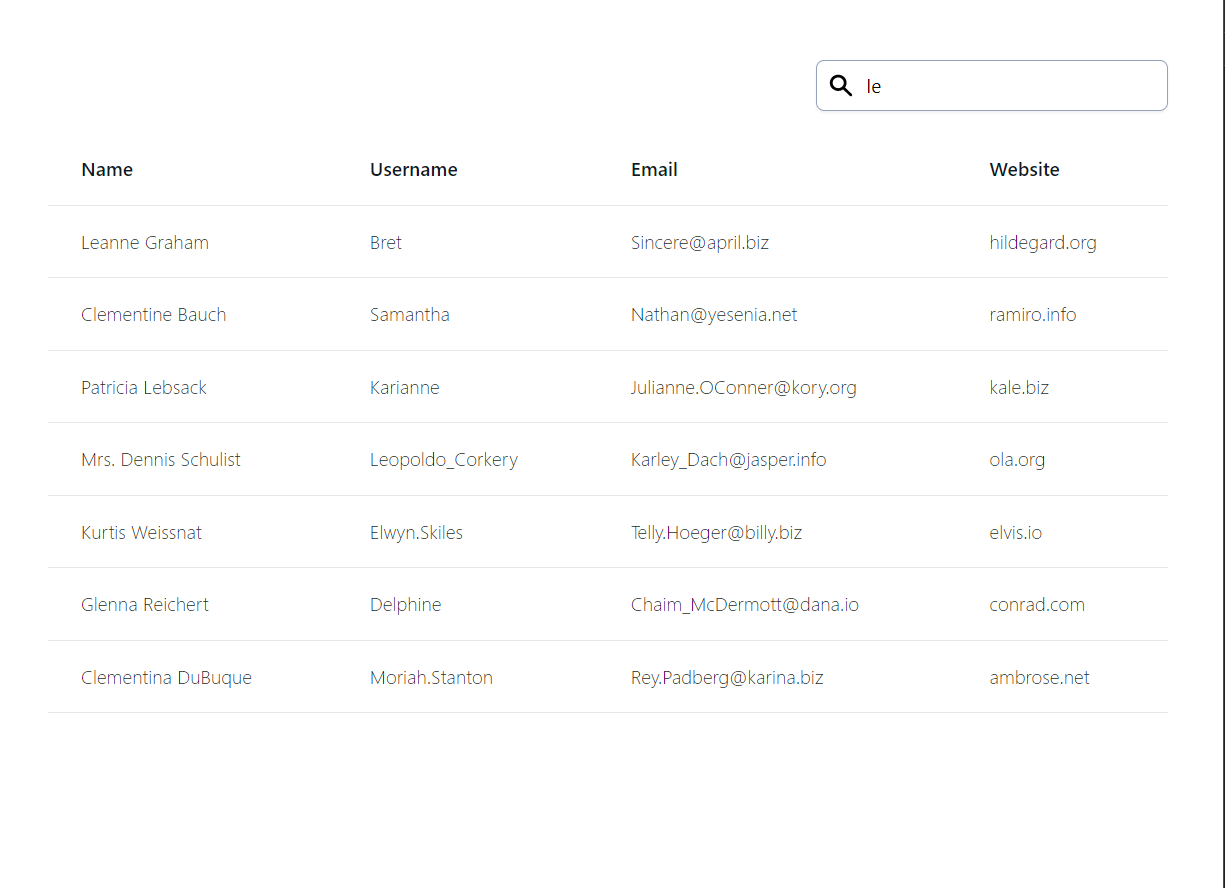
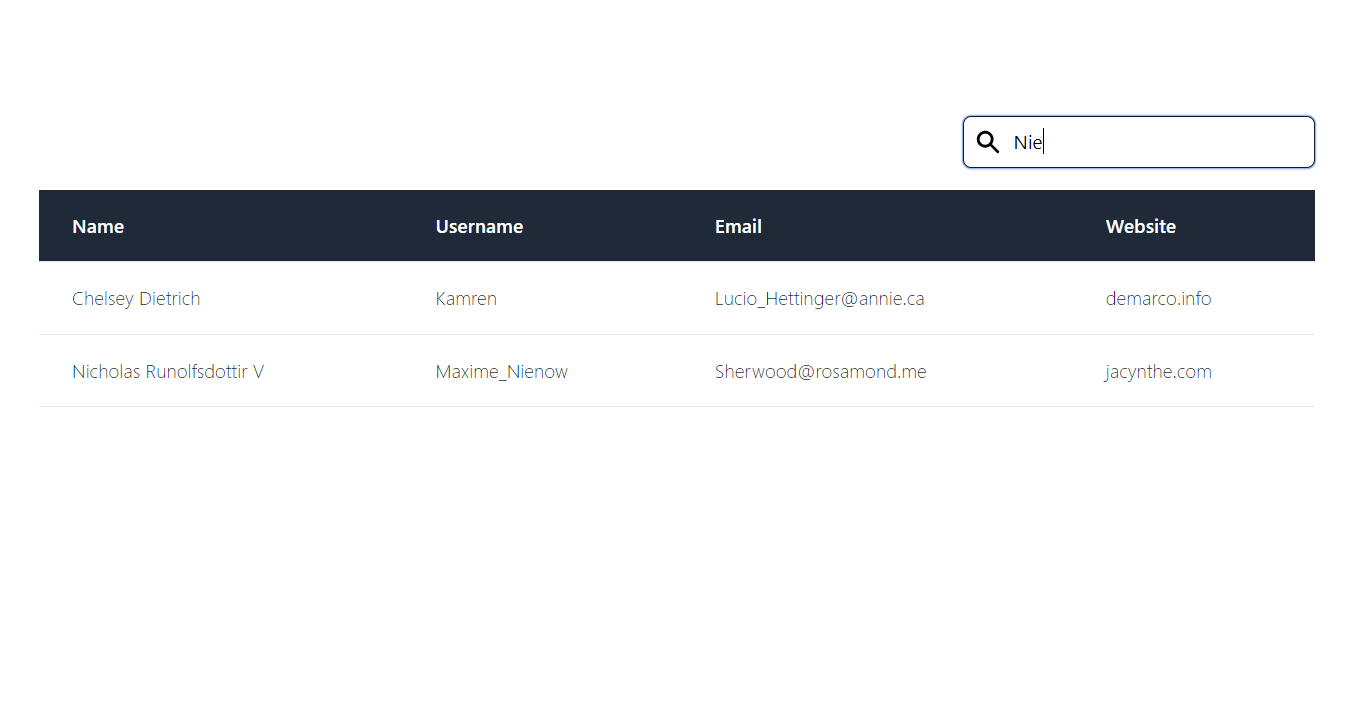
Final touches

diff --git a/src/features/Users/Users.tsx b/src/features/Users/Users.tsx
@@ -1,16 +1,18 @@
 import { useCallback, useEffect, useState } from 'react';
 import { useSelector, useDispatch } from 'react-redux';
 import { AppDispatch } from 'store';
-import { fetchUsers, selectStatus, selectUsers } from 'store/userSlice';
+import { fetchUsers, selectError, selectStatus, selectUsers } from 'store/userSlice';
 import { User } from '@types';
 import { Table } from './components/Table';
 import { SearchBox } from './components/Search';
 import { paramsInclude } from './helpers';
 import { FILTER_COLUMNS, TABLE_COLUMNS } from './consts';
 import { LoadingIcon } from './components/Loading';
+import { Alert } from './components/Alert';
 
 export const Users = () => {
   const dispatch = useDispatch<AppDispatch>();
+  const error = useSelector(selectError);
   const status = useSelector(selectStatus);
   const initialList = useSelector(selectUsers);
   const [users, setUsers] = useState<User[]>(initialList);
@@ -34,6 +36,10 @@ export const Users = () => {
 
   fetchData();
 
+  if (status === 'error') {
+    return <Alert message={`Error while fetching data. \n Please try again: ${error}`} />;
+  }
+
   if (status === 'loading') {
     return <LoadingIcon />;
   }
@@ -48,6 +54,9 @@ export const Users = () => {
             </div>
           </div>
           <Table data={users} columns={TABLE_COLUMNS} />
+          {users?.length === 0 && (
+            <Alert message={'Nothing found. Please try other search keyword'} />
+          )}
         </div>
       </div>
     </div>

diff --git a/src/features/Users/components/Table/Table.tsx b/src/features/Users/components/Table/Table.tsx
@@ -3,9 +3,9 @@ import { TableColumn, User } from '@types';
 export const Table = ({ data, columns }: { data: User[]; columns: TableColumn[] }) => (
   <table className="min-w-full text-left w-800">
     <thead>
-      <tr className="border-b">
+      <tr className="border-b bg-gray-800 boder-gray-900">
         {columns.map(({ displayName }) => (
-          <th key={displayName} scope="col" className="text-sm font-medium text-gray-900 px-6 py-4 text-left">
+          <th key={displayName} scope="col" className="text-sm text-white font-medium px-6 py-4 whitespace-nowrap">
             {displayName}
           </th>
         ))}

diff --git a/src/store/userSlice.ts b/src/store/userSlice.ts
@@ -37,7 +37,8 @@ export const slice: Slice<UserState> = createSlice({
 
 export const fetchUsers = createAsyncThunk('user/fetchUsers', async () => await fetchUsersData());
 
-export const selectUsers = (state: { user: UserState }) => state.user.users;
+export const selectError = (state: { user: UserState }) => state.user.error;
 export const selectStatus = (state: { user: UserState }) => state.user.status;
+export const selectUsers = (state: { user: UserState }) => state.user.users;
 
 export default slice.reducer;

diff --git a/src/features/Users/components/Alert/Alert.tsx b/src/features/Users/components/Alert/Alert.tsx
@@ -1,0 +1,6 @@
+export const Alert = ({ message }: { message: string }) =>
+  message ? (
+    <div className="bg-yellow-100 rounded-lg py-5 px-6 mb-4 my-3 text-base text-yellow-700" role="alert">
+      {message}
+    </div>
+  ) : null;

diff --git a/src/features/Users/components/Alert/index.ts b/src/features/Users/components/Alert/index.ts
@@ -1,0 +1,1 @@
+export { Alert } from './Alert';
